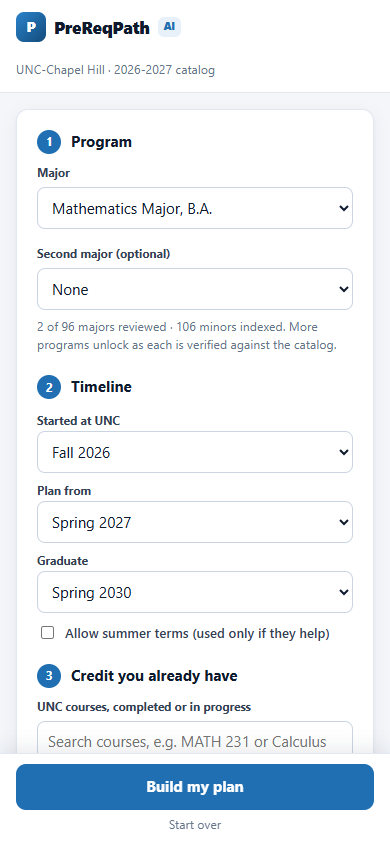
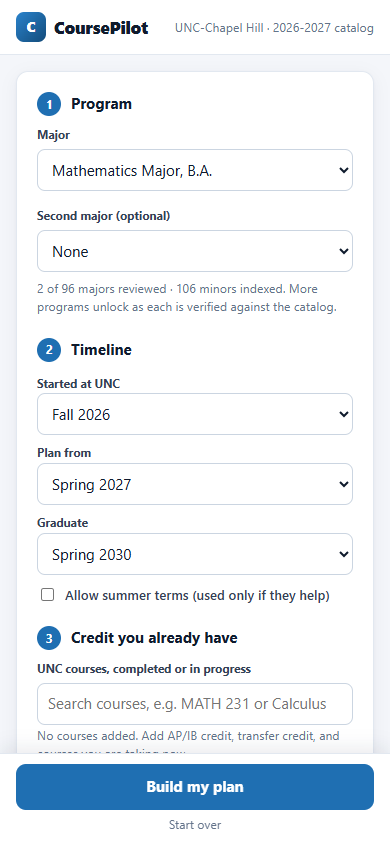
Rebrand to CoursePilot across the app, API docs and documentation
Website title, header, hero, footer, CSV export, API title, scraper
User-Agent, verification labels shown in the app, README/DEPLOY/PRD,
Dockerfile and frontend package name. Internal identifiers (Python
package 'prereqpath', PREREQPATH_* env vars) are unchanged. README
screenshots regenerated with the new branding; 15/15 browser checks.

diff --git a/frontend/src/App.tsx b/frontend/src/App.tsx
@@ -119,7 +119,7 @@ export default function App() {
   return (
     <div className="app">
       <header className="top">
-        <div className="brand"><span className="logo" aria-hidden>P</span> PreReqPath <span className="ai">AI</span></div>
+        <div className="brand"><span className="logo" aria-hidden>C</span> CoursePilot</div>
         <nav className="top-meta">
           <span className="catalog-tag">UNC-Chapel Hill · {YEAR} catalog</span>
         </nav>
@@ -186,7 +186,7 @@ export default function App() {
         </main>
       )}
       <footer>
-        PreReqPath is an independent student project, not affiliated with or endorsed by UNC-Chapel Hill. Plans are
+        CoursePilot is an independent student project, not affiliated with or endorsed by UNC-Chapel Hill. Plans are
         provisional and never graduation-certified; confirm with your academic advisor and Tar Heel Tracker.
       </footer>
       {drawer && <CourseDrawer code={drawer} year={YEAR} planned={planned.get(drawer)} onClose={() => setDrawer(null)} />}
@@ -200,7 +200,7 @@ function Hero() {
       <span className="eyebrow">Semester-by-semester degree planning</span>
       <h1>Your path to graduation, solved.</h1>
       <p className="lede">
-        Tell PreReqPath where you are: courses taken, AP/IB scores, transfer hours. It builds a full plan to
+        Tell CoursePilot where you are: courses taken, AP/IB scores, transfer hours. It builds a full plan to
         graduation that respects every prerequisite chain, credit limit, and degree rule it models, and explains
         exactly why when a goal isn't possible.
       </p>

diff --git a/frontend/src/components/PlanView.tsx b/frontend/src/components/PlanView.tsx
@@ -307,7 +307,7 @@ function downloadCsv(response: PlanResponse, plan: Plan) {
   const url = URL.createObjectURL(new Blob([csv], { type: "text/csv" }));
   const a = document.createElement("a");
   a.href = url;
-  a.download = "prereqpath-plan.csv";
+  a.download = "coursepilot-plan.csv";
   a.click();
   URL.revokeObjectURL(url);
 }

diff --git a/frontend/index.html b/frontend/index.html
@@ -3,7 +3,7 @@
   <head>
     <meta charset="UTF-8" />
     <meta name="viewport" content="width=device-width, initial-scale=1.0" />
-    <title>PreReqPath — UNC degree planner</title>
+    <title>CoursePilot — UNC degree planner</title>
   </head>
   <body>
     <div id="root"></div>

diff --git a/backend/prereqpath/api.py b/backend/prereqpath/api.py
@@ -45,7 +45,7 @@ async def lifespan(_: FastAPI):
     yield
 
 
-app = FastAPI(title="PreReqPath", version="1.0.0", lifespan=lifespan,
+app = FastAPI(title="CoursePilot", version="1.0.0", lifespan=lifespan,
               description="Provisional semester-by-semester planning from the UNC-Chapel Hill catalog. "
                           "Not an official degree audit.")
 app.add_middleware(GZipMiddleware, minimum_size=1024)

diff --git a/backend/prereqpath/catalog/fetch.py b/backend/prereqpath/catalog/fetch.py
@@ -22,7 +22,7 @@ import httpx
 from .. import DATA_DIR
 
 BASE = "https://catalog.unc.edu"
-USER_AGENT = "PreReqPathAI/0.10 (student degree-planning project; polite, cached, robots-aware)"
+USER_AGENT = "CoursePilot/1.0 (student degree-planning project; polite, cached, robots-aware)"
 FORBIDDEN_PREFIXES = ("/archives/",)
 MIN_DELAY_SECONDS = 1.5
 

diff --git a/backend/prereqpath/__init__.py b/backend/prereqpath/__init__.py
@@ -1,4 +1,4 @@
-"""PreReqPath: semester-by-semester degree planning for UNC Chapel Hill."""
+"""CoursePilot: semester-by-semester degree planning for UNC Chapel Hill."""
 import os
 from pathlib import Path
 

diff --git a/README.md b/README.md
@@ -1,15 +1,15 @@
-# PreReqPath AI
+# CoursePilot
 
 **Semester-by-semester degree planning for UNC-Chapel Hill, built on the real catalog and a constraint solver.**
 
 A student picks a major (or a double major), enters the credit they already have (UNC courses, AP/IB scores,
-transfer hours) and a graduation term. PreReqPath returns a complete plan to graduation that respects every
+transfer hours) and a graduation term. CoursePilot returns a complete plan to graduation that respects every
 prerequisite chain, credit limit and modeled degree rule. When a goal is impossible, it explains *why* and offers
 fixes it has already verified.
 
 ![Semester plan](docs/screenshots/02-plan.png)
 
-> **Provisional by design.** PreReqPath is an independent student project, not an official UNC degree audit.
+> **Provisional by design.** CoursePilot is an independent student project, not an official UNC degree audit.
 > Every plan is labeled provisional and never "graduation-certified". Verified catalog facts and uncertain
 > interpretations are always shown separately.
 
@@ -120,7 +120,7 @@ cd backend && ../.venv/Scripts/python -m uvicorn prereqpath.api:app --port 8000
 Open <http://127.0.0.1:8000>. For UI development, keep the API running and use `npm run dev` in `frontend/`
 (Vite on :5173, proxying `/api`).
 
-**Docker:** `docker build -t prereqpath . && docker run -p 8000:8000 prereqpath`
+**Docker:** `docker build -t coursepilot . && docker run -p 8000:8000 coursepilot`
 **Deploying:** see [DEPLOY.md](DEPLOY.md) (Render blueprint included).
 
 ## Tests
@@ -168,5 +168,5 @@ Rebuild the data with `python -m prereqpath.catalog.build courses|programs|exams
 
 ---
 
-*PreReqPath is not affiliated with or endorsed by UNC-Chapel Hill. The pre-rebuild prototype (v0.7–v2.9) is
+*CoursePilot is not affiliated with or endorsed by UNC-Chapel Hill. The pre-rebuild prototype (v0.7–v2.9) is
 preserved on the `backup/v29-prototype` branch.*

diff --git a/DEPLOY.md b/DEPLOY.md
@@ -1,6 +1,6 @@
-# Deploying PreReqPath
+# Deploying CoursePilot
 
-PreReqPath ships as **one container**: FastAPI serves both the API (`/api/*`) and the built React app. There's no
+CoursePilot ships as **one container**: FastAPI serves both the API (`/api/*`) and the built React app. There's no
 database, and the catalog is read-only JSON baked into the image. Any host that runs a Docker image works.
 
 The image was built and verified locally: `docker build` succeeded (543 MB). The container passed the full
@@ -32,8 +32,8 @@ fly deploy
 ## Option C: any Docker host (Railway, Cloud Run, a VM)
 
 ```bash
-docker build -t prereqpath .
-docker run -d -p 80:8000 --restart unless-stopped prereqpath
+docker build -t coursepilot .
+docker run -d -p 80:8000 --restart unless-stopped coursepilot
 ```
 
 The image honors `$PORT`, which Cloud Run and Railway set automatically. It runs as a non-root user and includes a

diff --git a/PRD.md b/PRD.md
@@ -1,4 +1,4 @@
-# PreReqPath — Product Requirements
+# CoursePilot — Product Requirements
 
 ## Promise
 A UNC-Chapel Hill undergraduate selects 1–2 majors and 0–2 minors (at most three programs), enters completed,
